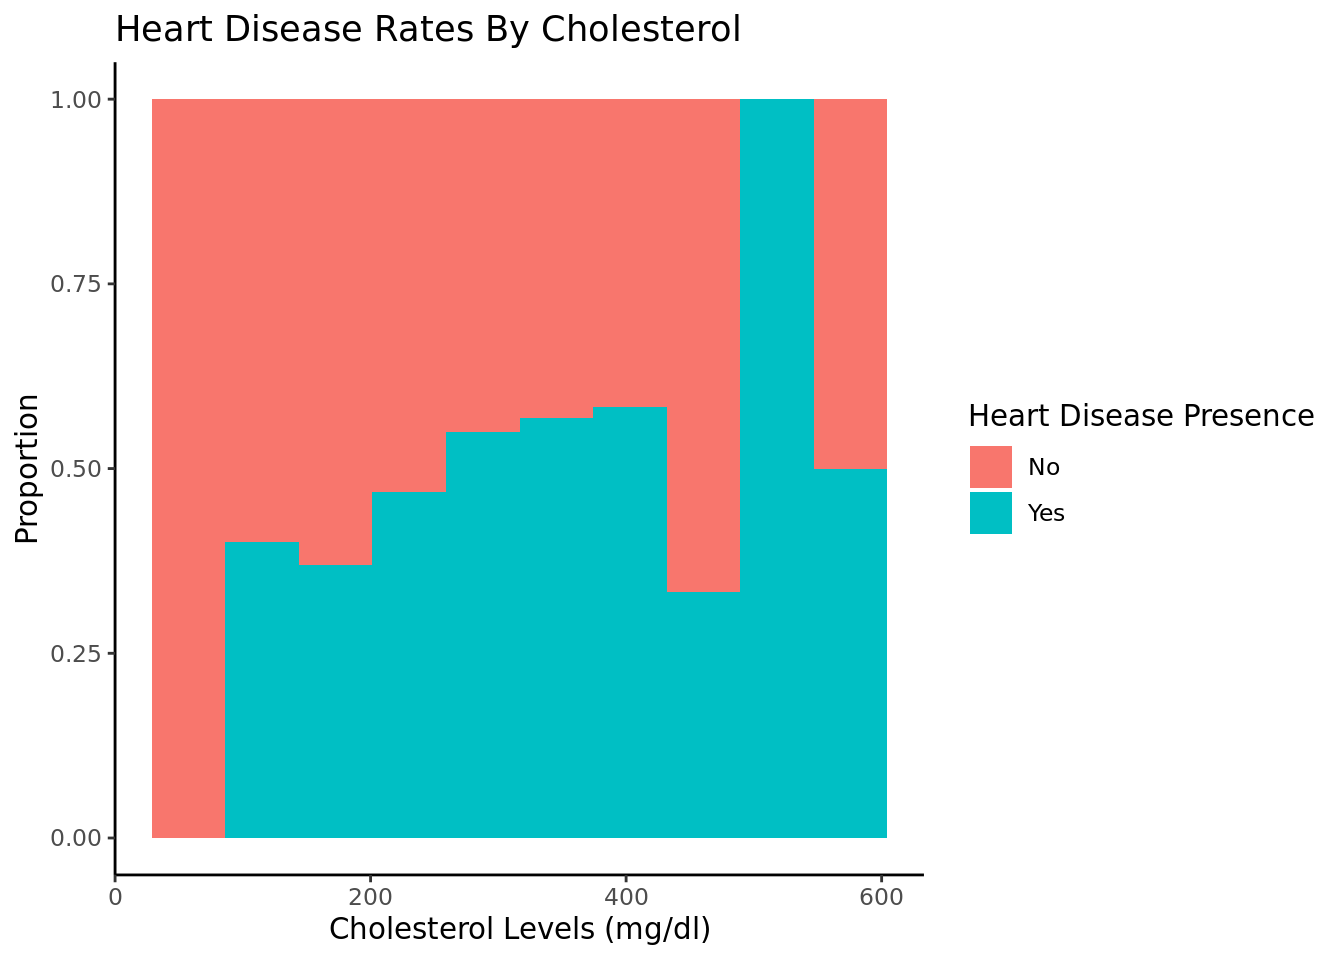
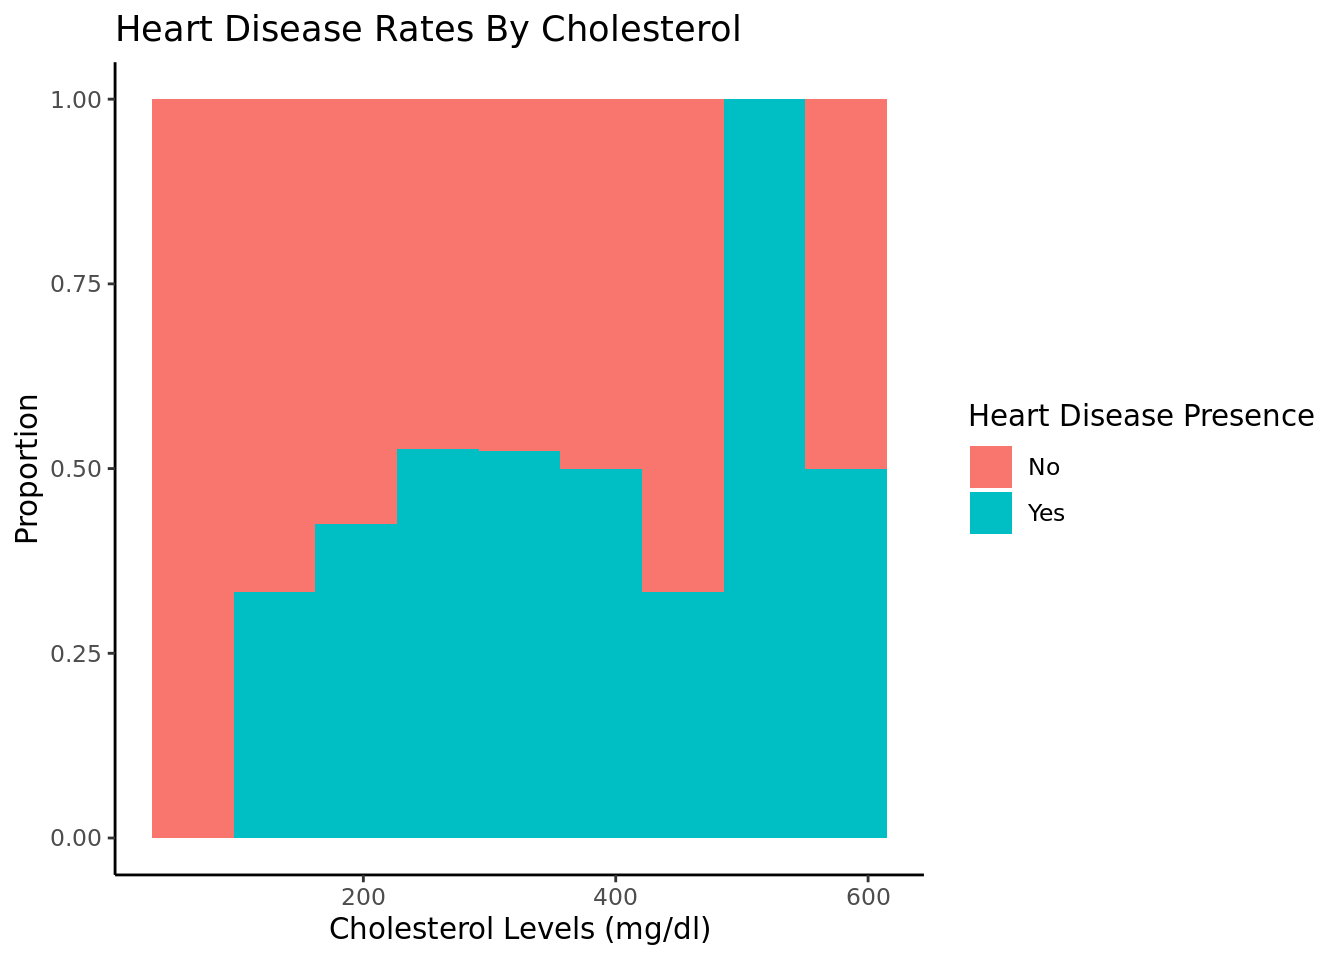
attempt tp fox errors

diff --git a/docs/report.html b/docs/report.html
@@ -261,7 +261,7 @@ code span.wa { color: #60a0b0; font-weight: bold; font-style: italic; } /* Warni
 ✖ dplyr::lag()      masks stats::lag()
 ✖ yardstick::spec() masks readr::spec()
 ✖ recipes::step()   masks stats::step()
-• Search for functions across packages at https://www.tidymodels.org/find/</code></pre>
+• Use tidymodels_prefer() to resolve common conflicts.</code></pre>
 </div>
 </div>
 <div class="cell">
@@ -341,7 +341,7 @@ $ num      &lt;dbl&gt; 0, 2, 1, 0, 0, 0, 3, 0, 2, 1, 0, 0, 2, 0, 0, 0, 1, 0, 0, 
 <span id="cb12-3"><a href="#cb12-3" aria-hidden="true" tabindex="-1"></a>  <span class="fu">ggplot</span>(</span>
 <span id="cb12-4"><a href="#cb12-4" aria-hidden="true" tabindex="-1"></a>    <span class="fu">aes</span>(<span class="at">x =</span> chol, <span class="at">fill =</span> <span class="fu">if_else</span>(num <span class="sc">==</span> <span class="dv">1</span>, <span class="st">"Yes"</span>, <span class="st">"No"</span>))</span>
 <span id="cb12-5"><a href="#cb12-5" aria-hidden="true" tabindex="-1"></a>    ) <span class="sc">+</span></span>
-<span id="cb12-6"><a href="#cb12-6" aria-hidden="true" tabindex="-1"></a>  <span class="fu">geom_histogram</span>(<span class="at">position =</span> <span class="st">"fill"</span>, <span class="at">bins =</span> <span class="dv">10</span>) <span class="sc">+</span></span>
+<span id="cb12-6"><a href="#cb12-6" aria-hidden="true" tabindex="-1"></a>  <span class="fu">geom_histogram</span>(<span class="at">position =</span> <span class="st">"fill"</span>, <span class="at">bins =</span> <span class="dv">9</span>) <span class="sc">+</span></span>
 <span id="cb12-7"><a href="#cb12-7" aria-hidden="true" tabindex="-1"></a>  <span class="fu">labs</span>(<span class="at">title =</span> <span class="st">"Heart Disease Rates By Cholesterol"</span>,</span>
 <span id="cb12-8"><a href="#cb12-8" aria-hidden="true" tabindex="-1"></a>       <span class="at">x =</span> <span class="st">"Cholesterol Levels (mg/dl)"</span>,</span>
 <span id="cb12-9"><a href="#cb12-9" aria-hidden="true" tabindex="-1"></a>       <span class="at">y =</span> <span class="st">"Proportion"</span>,         </span>
@@ -624,7 +624,7 @@ approximation based on the number of `reps` chosen in the `generate()` step. See
 1       0</code></pre>
 </div>
 </div>
-<p>The p-value is close to 0, meaning it will be smaller than an alpha of .05. We reject the null hypothesis, and there is strong evidence to conclude that the proportion of people over 50 and the proportion of people 50 and under who get heart disease are not the same.</p>
+<p>The p-value is close to 0, meaning it will be smaller than an alpha of .05. We reject the null hypothesis, and there is strong evidence to conclude that the proportion of people over 50 who get heart disease is greater than the proportion of people 50 and under who get heart disease.</p>
 <div class="cell">
 <div class="sourceCode cell-code" id="cb53"><pre class="sourceCode r code-with-copy"><code class="sourceCode r"><span id="cb53-1"><a href="#cb53-1" aria-hidden="true" tabindex="-1"></a><span class="fu">visualize</span>(null_dist2) <span class="sc">+</span></span>
 <span id="cb53-2"><a href="#cb53-2" aria-hidden="true" tabindex="-1"></a> <span class="fu">shade_p_value</span>(<span class="at">obs_stat =</span> obs_prop_diff2, <span class="at">direction =</span> <span class="st">"greater"</span>) </span></code><button title="Copy to Clipboard" class="code-copy-button"><i class="bi"></i></button></pre></div>
